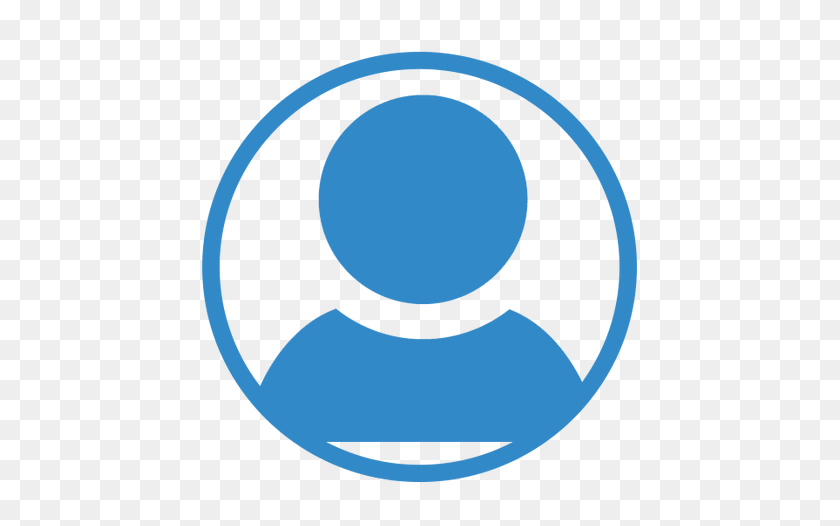
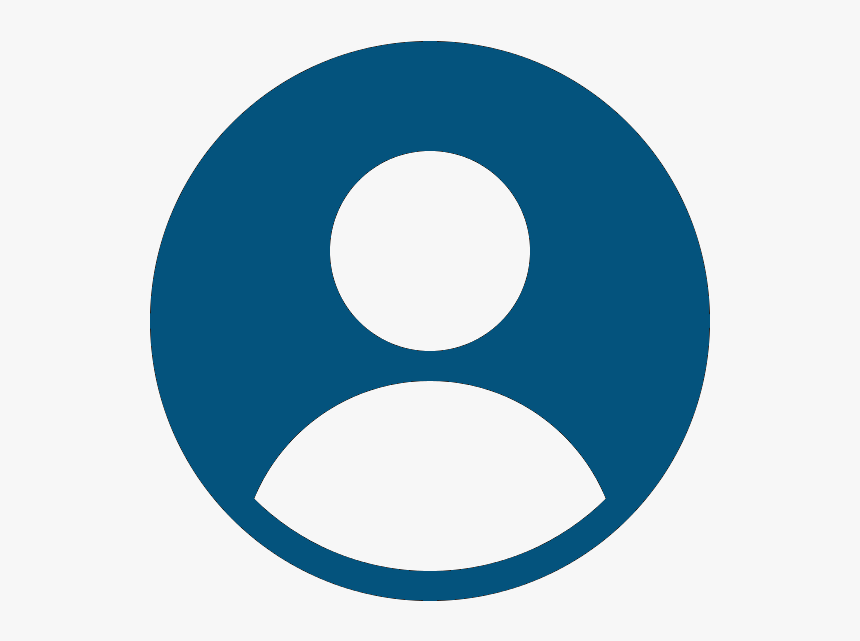
image css done!

diff --git a/src/components/Template.css b/src/components/Template.css
@@ -53,16 +53,16 @@
 
 .header h2{
 	font-weight: 600;
-	color: rgb(80, 40, 226);
+	color: #04537d;
 	font-size: 1.6rem;
-	margin-top: -1.3rem;
+	margin-top: -6rem;
 }
 
 .template h6{
 	font-size: 11px;
-	color: blue;
+	color: #04537d;
 	font-weight: 700;
-	border-bottom: 2px solid blue;	
+	border-bottom: 2px solid #04537d;	
 	padding-bottom: 0.25rem;	
 } 
 
@@ -75,18 +75,7 @@
 	padding: 0 0 0 8rem;  
 }
 
-.header i{
-	font-size: 40px;
-	border: 2px solid lightgrey;
-	padding: 1rem 1.5rem 1.5rem 1.5rem;
-	border-radius: 50%;
-	background-color: lightgrey;
-	position: relative;
-	top: 3rem;
-	right: 7rem;
-
-}
-
+ 
 .col{
 	padding-right: 2rem;
 	margin-left: -1rem;
@@ -120,4 +109,16 @@
 .row ul{
 	font-size: 0.8rem;
 }
+
+.imageTemplate{
+	width: 100px;
+	height: 100px;
+	border-radius: 50%;
+	margin-left: -7rem;
+    margin-top: 3rem;
+
+}
+
+
+
 

diff --git a/src/components/MyDetails.js b/src/components/MyDetails.js
@@ -1,8 +1,6 @@
 import { useEffect, useState } from "react";
 import { useForm } from "react-hook-form";
 import { FaArrowRight } from "react-icons/fa";
-import { FaUserCircle } from "react-icons/fa";
-import { BsPlusCircle } from "react-icons/bs";
 import { useOutletContext } from "react-router-dom";
 import axios from "axios";
 import './MyDetails.css'
@@ -103,7 +101,7 @@ const MyDetails = (props) => {
         <div className="buttons">
           <button className="button2">Cancel</button>
           <input type="submit" name="mydetails" value="Save" />
-          <button className="button1"><FaArrowRight /></button>
+          <button className="button1"><i><FaArrowRight /></i></button>
         </div>
 
         {/* Image Section */}

diff --git a/src/components/Template.js b/src/components/Template.js
@@ -1,6 +1,6 @@
 import React, { useState, useEffect } from 'react'
 import './Template.css'
-import { BiCircle } from "react-icons/bi";
+import { BiSquare} from "react-icons/bi";
 import { FaUserAlt } from "react-icons/fa";
 import axios from 'axios';
 
@@ -128,7 +128,7 @@ const Template = (props) => {
 
 		<section className="template">
 			<div className="header">
-				<i><img src={finalImage}/></i>
+				<i><img className='imageTemplate' src={finalImage}/></i>
 				<h2>{name}</h2>
 				<h5>{roleMapping()}</h5>
 				<h5>Total Exp: {total_exp}</h5>

diff --git a/src/components/EducationalBackground.js b/src/components/EducationalBackground.js
@@ -21,7 +21,7 @@ function EducationalBackground() {
       <div className="buttons">
         <button className="button2">Cancel</button>
         <input type="submit" name="aboutme" value="Save" />
-        <button className="button1"><FaArrowRight /></button>
+        <button className="button1"><i><FaArrowRight /></i></button>
       </div>
       <div className="eduBackground">
         <label className="edu-field">Type of Establishment</label>

diff --git a/src/components/Achievements.js b/src/components/Achievements.js
@@ -21,7 +21,7 @@ function Achievements() {
       <div className="buttons">
         <button className="button2">Cancel</button>
         <input type="submit" name="aboutme" value="Save" />
-        <button className="button1"><FaArrowRight /></button>
+        <button className="button1"><i><FaArrowRight /></i></button>
       </div>
       <div className="achievement">
         <label className="achievement-name">

diff --git a/src/components/WorkExp.js b/src/components/WorkExp.js
@@ -143,7 +143,7 @@ const WorkExp = () => {
       <div className="buttons">
         <button className="button2">Cancel</button>
         <input type="submit" name="aboutme" value="Save" />
-        <button className="button1"><FaArrowRight /></button>
+        <button className="button1"><i><FaArrowRight /></i></button>
       </div>
       <h6 className="WorkExpHeader"><div>Work & </div>Experience</h6>
 

diff --git a/src/components/AboutMe.js b/src/components/AboutMe.js
@@ -60,7 +60,7 @@ function AboutMe() {
         <button className="button2">Cancel</button>     
         <input type="submit" name="aboutme" value="Save" />
         
-        <button className="button1"><FaArrowRight /></button>
+        <button className="button1"><i><FaArrowRight /></i></button>
       </div>
       <div className="aboutSection">
         <label className="label">About Me</label>

diff --git a/src/components/Skills.js b/src/components/Skills.js
@@ -40,7 +40,7 @@ const Skills = () => {
 					<button className="button2">Cancel</button>
 					<input type="submit" name="aboutme" value="Save" />
 
-					<button className="button1"><FaArrowRight /></button>
+					<button className="button1"><i><FaArrowRight /></i></button>
 				</div>
 				<h6 className="skillHeader"><div>Skills & </div>Proficiencies</h6>
 				<div className="SearchBox">

diff --git a/src/components/Memberships.js b/src/components/Memberships.js
@@ -21,7 +21,7 @@ function Memberships() {
       <div className="buttons">
         <button className="button2">Cancel</button>
         <input type="submit" name="aboutme" value="Save" />
-        <button className="button1"><FaArrowRight /></button>
+        <button className="button1"><i><FaArrowRight /></i></button>
       </div>
       <div className="membership">
         <label>

diff --git a/src/components/MyDetails.css b/src/components/MyDetails.css
@@ -91,18 +91,17 @@
 	display: none;
 }
 
-.profileImage {
-	border-radius: 50%;
-}
+
 
 .insert-image{
-	background-color: blue;
+	background-color: #04537d;
     width: 300px;
     margin-left: 6rem;
     margin-top: 2rem
 }
 
 .resumeImage {
-	width: 200px;
-	height: 200px;
+	width: 150px;
+	height: 150px;
+	border-radius: 50%;
 }

diff --git a/src/components/Sidebar.css b/src/components/Sidebar.css
@@ -9,10 +9,14 @@
 .sidebar{
   width: 15%;
   height: 100vh;
-  background-color: rgb(163, 176, 235);
+  background-color: #b3cfdf;
   position: fixed;
 }
 
+.sidebarHeader{
+	width: 100px;
+	height: 100px;
+}
 .sidebarHeader{
 	font-size: 2rem;
 	padding: 0 0 0 0.5rem;

diff --git a/src/components/AboutMe.css b/src/components/AboutMe.css
@@ -58,6 +58,11 @@
 	border-color : lightgrey;
 }
 
+.button1 i{
+	position: relative;
+	bottom: 0.2rem;
+}
+
 .button2{
 	border-color: transparent;
 	background-color: transparent;
